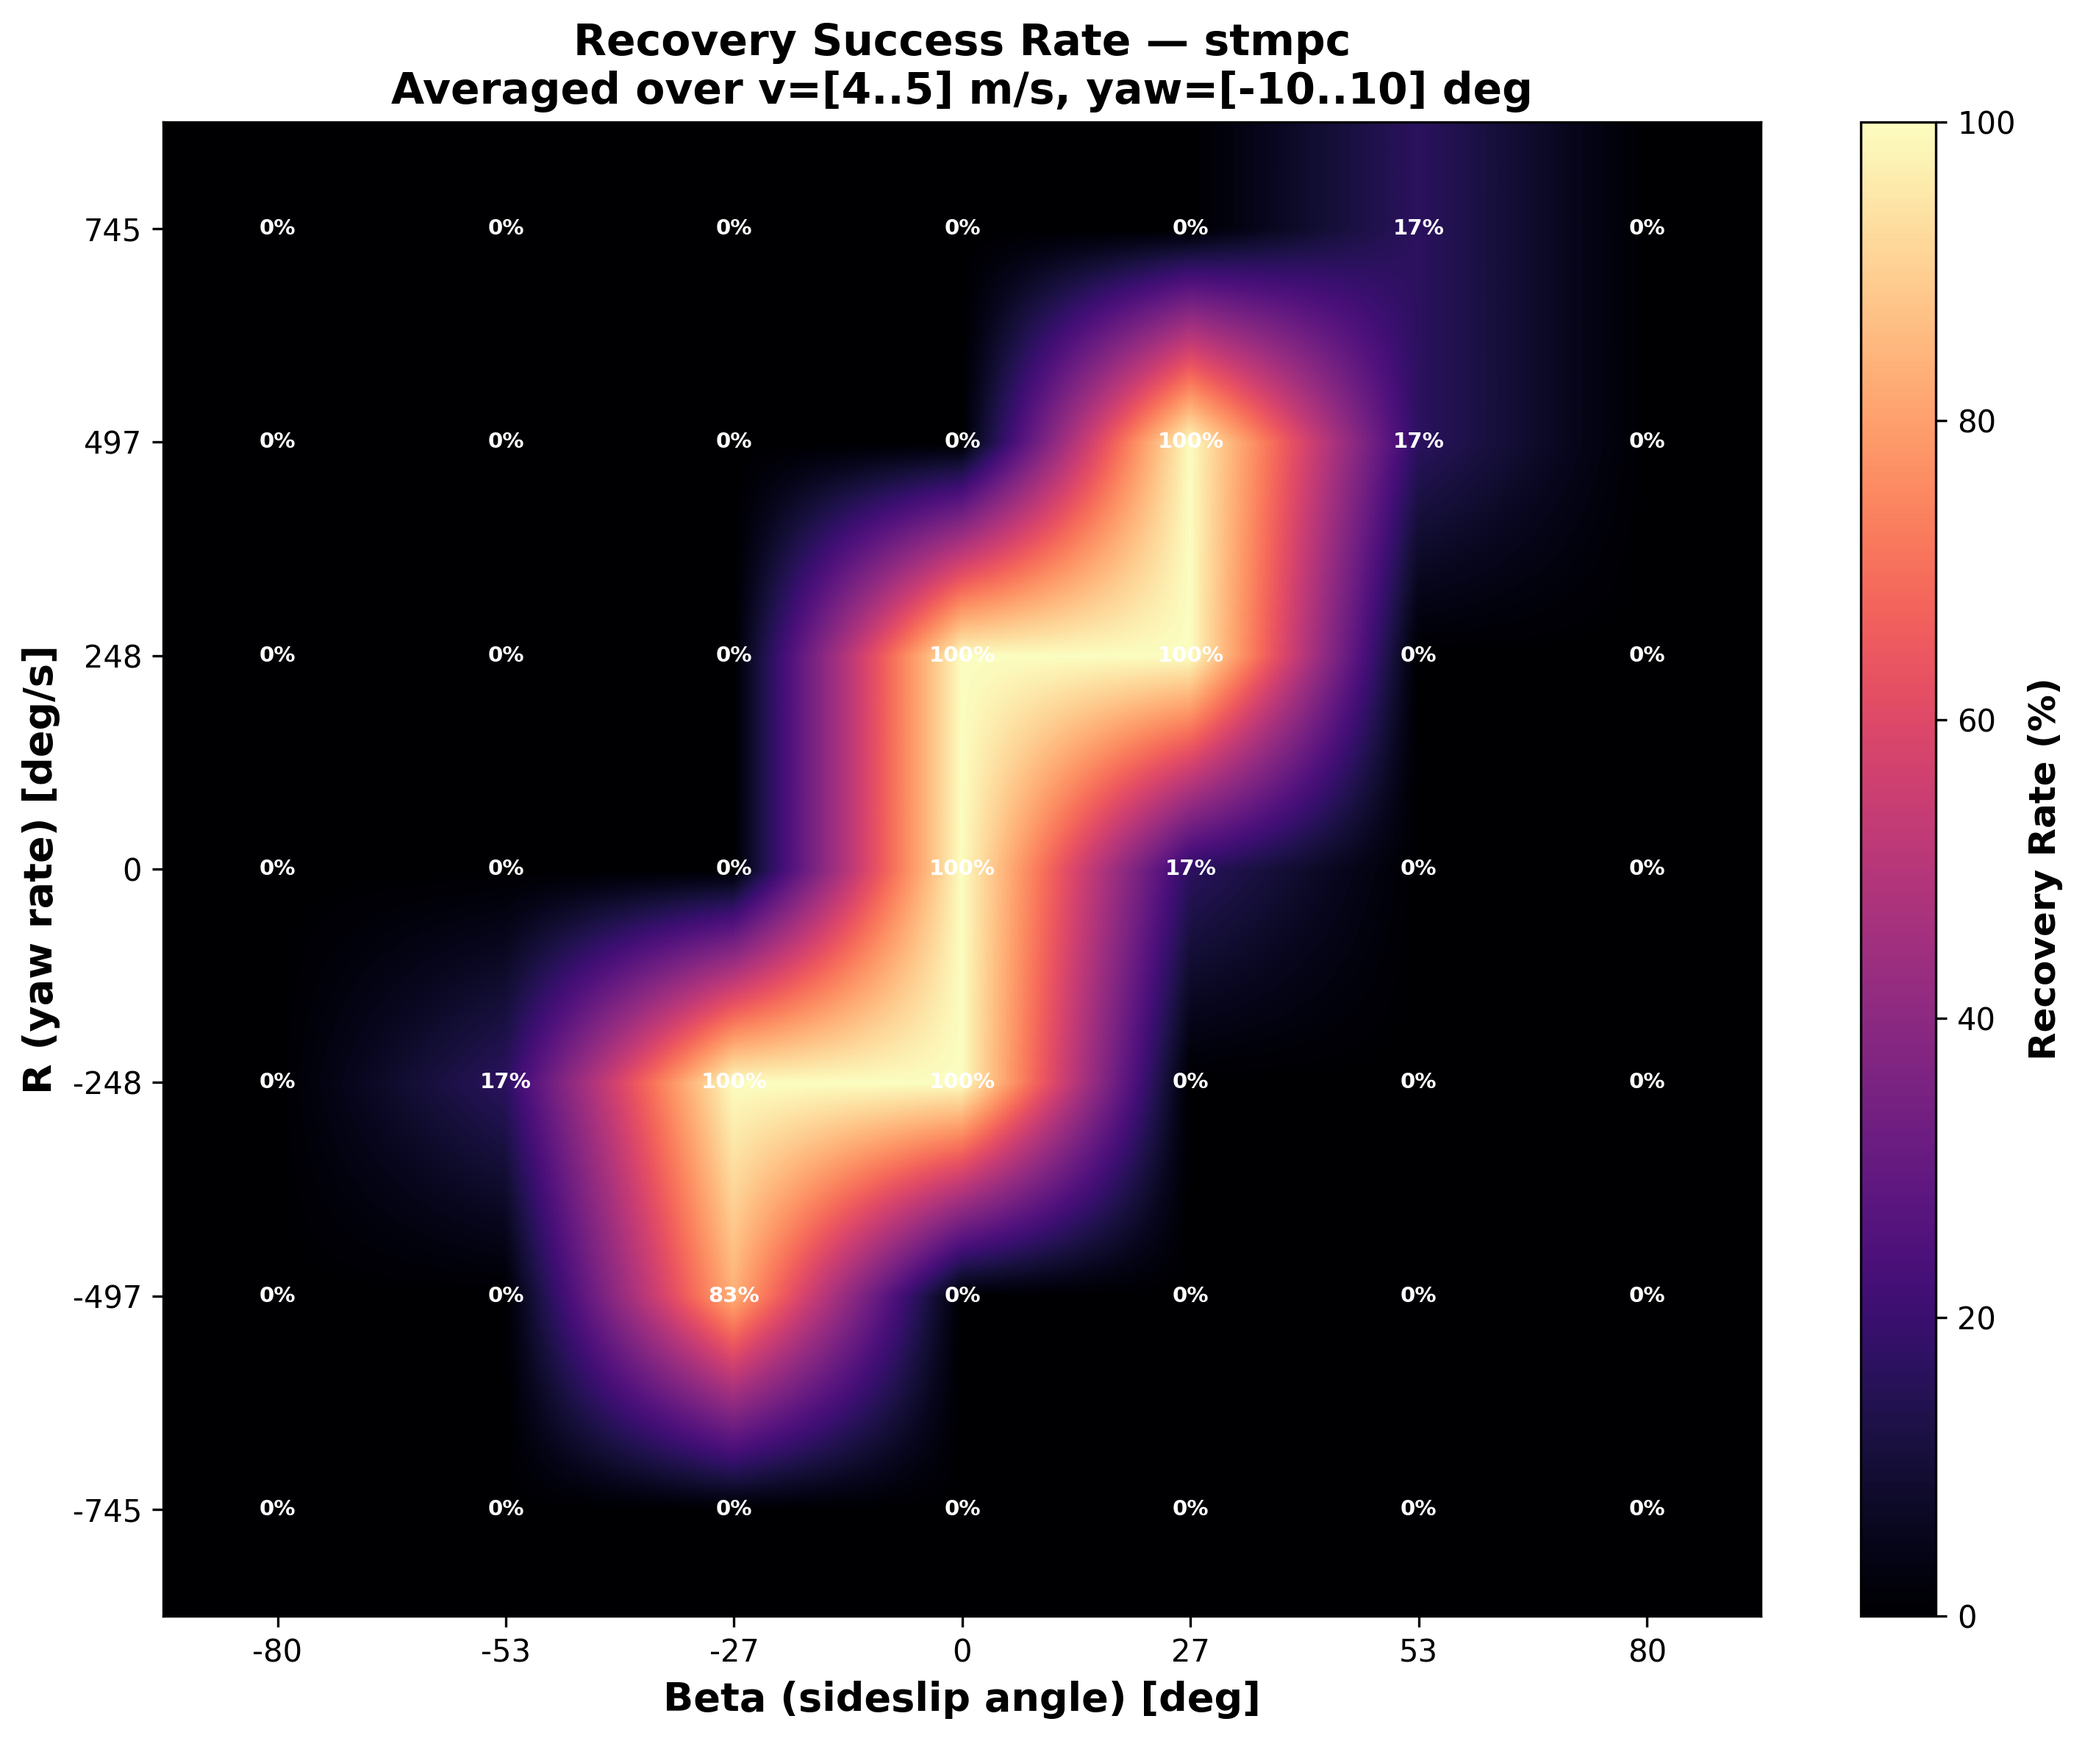
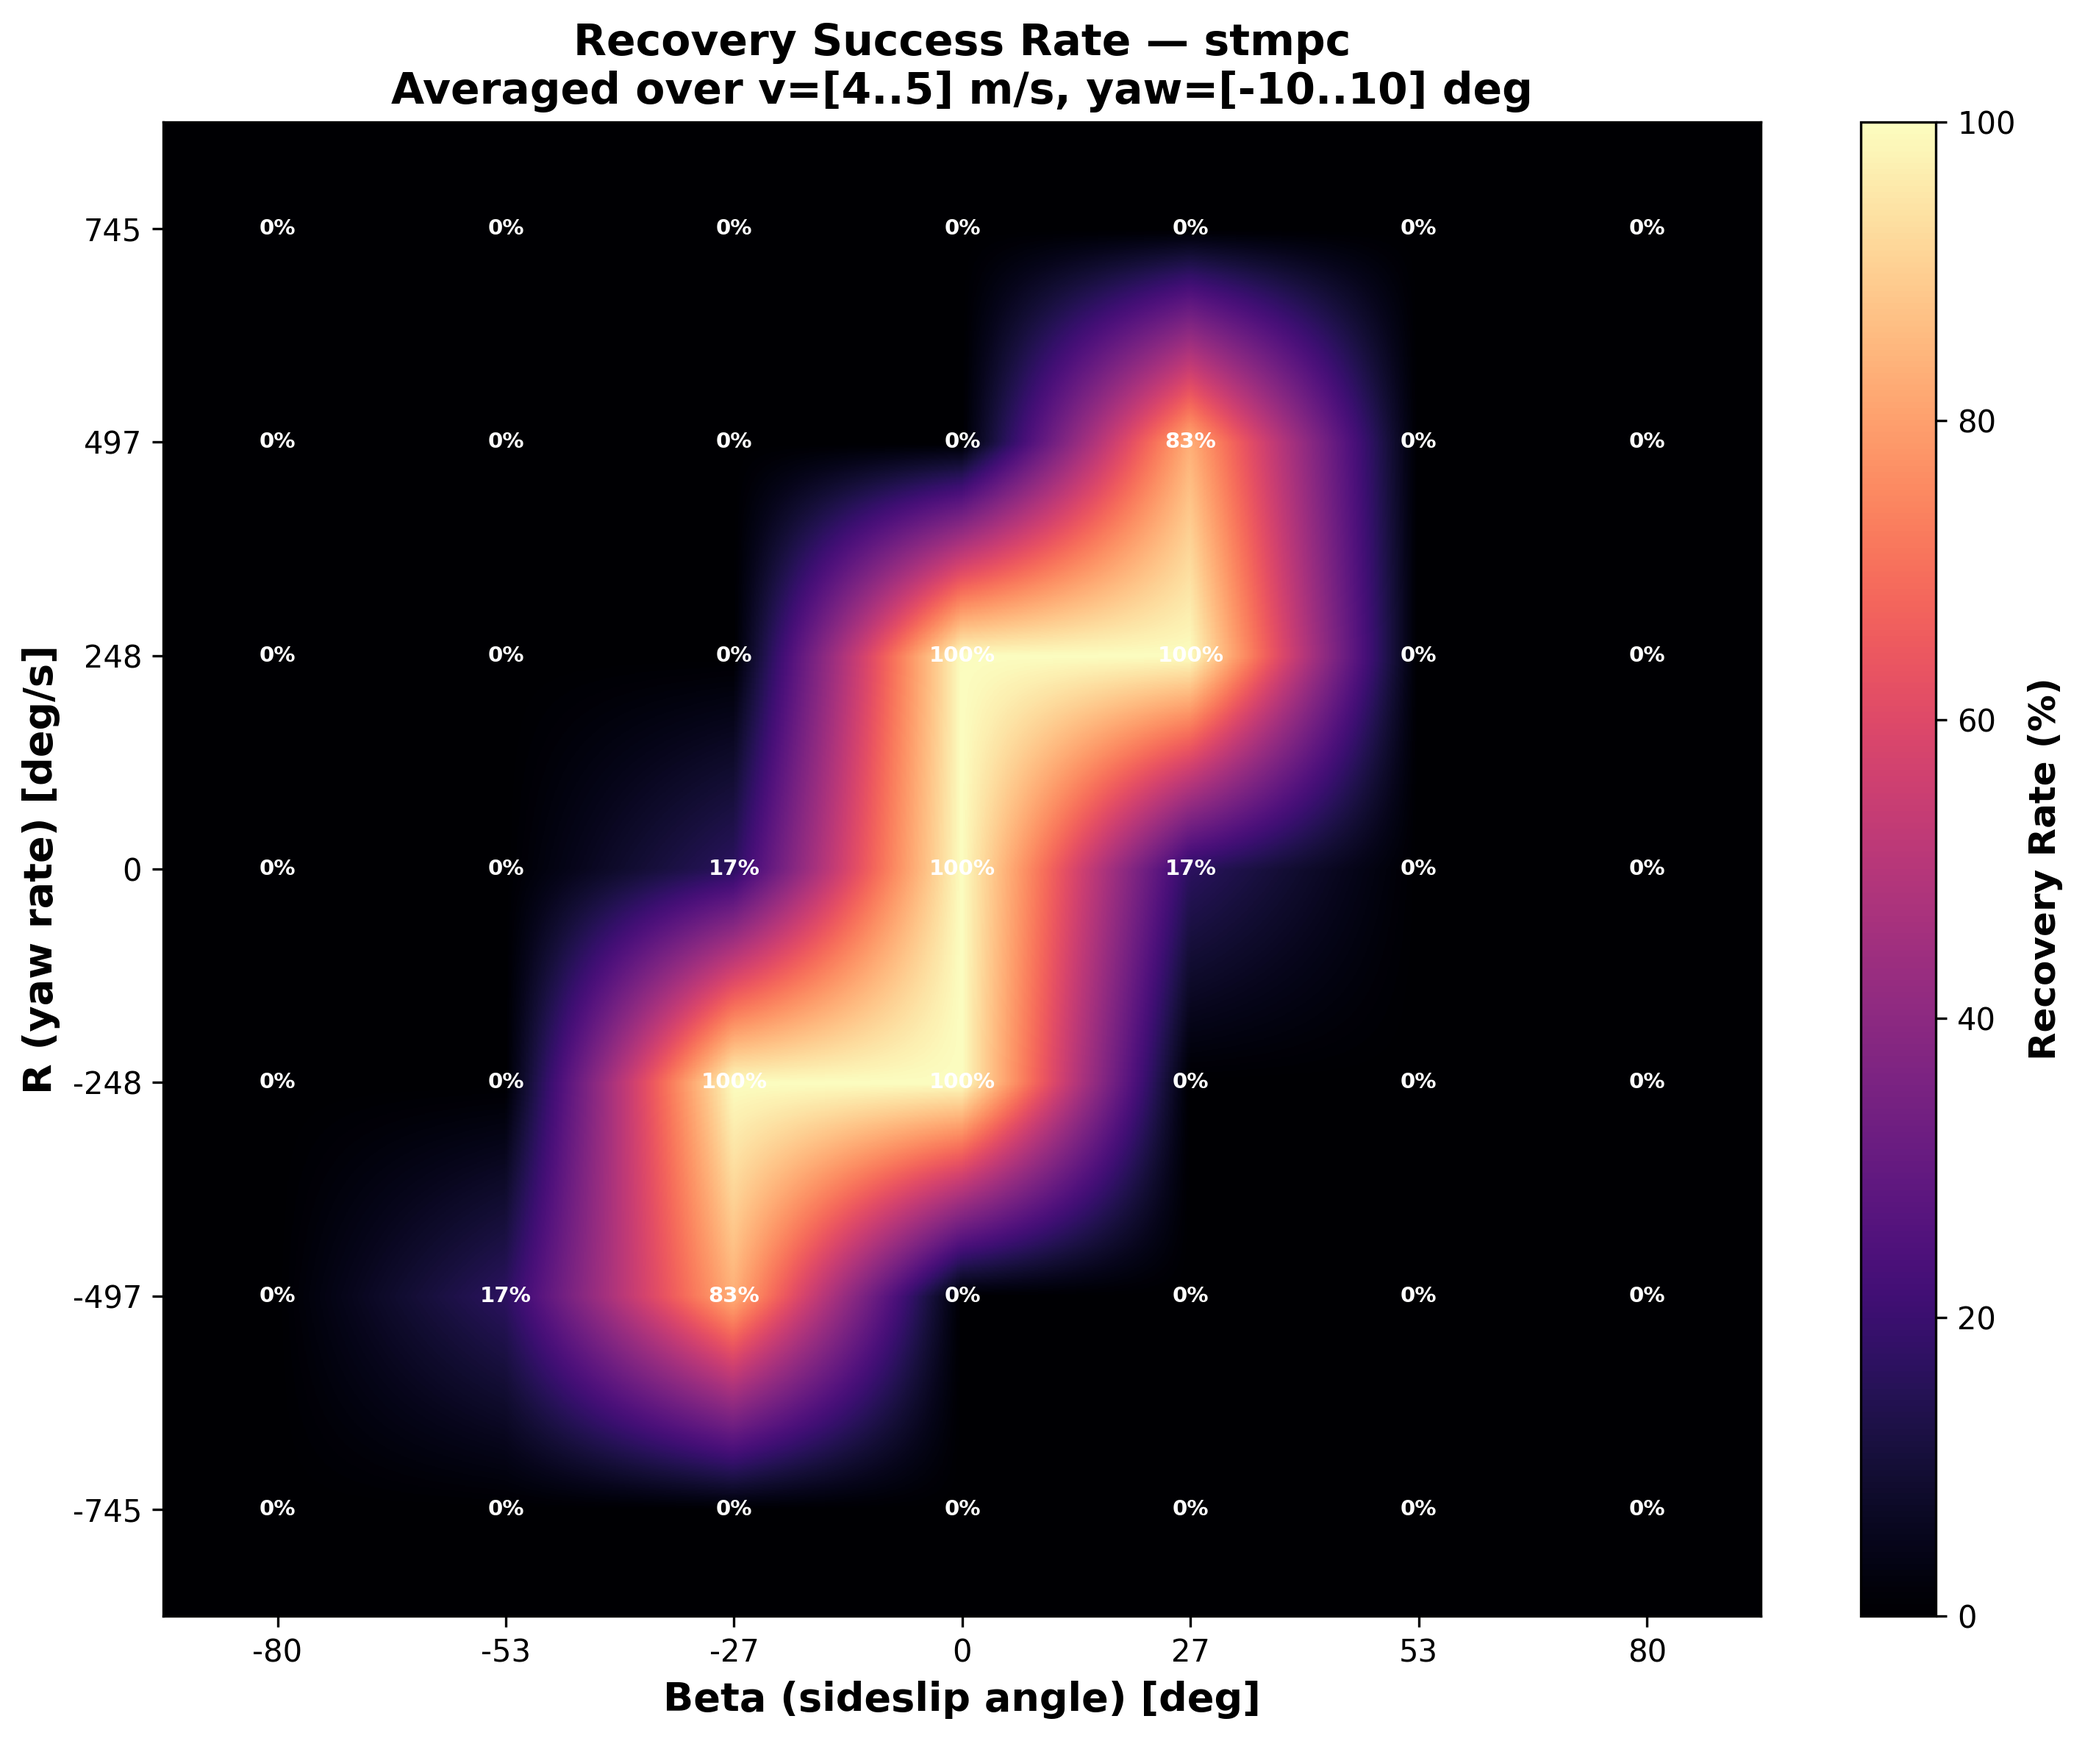
create metrics for new DRL run, and STMPC controller

Changed region(s): [[0.4965, 0.0625, 0.7757, 0.3438], [0.1551, 0.5312, 0.3103, 0.8438], [0.2793, 0.4062, 0.4344, 0.5938]]

diff --git a/examples/analysis/beta_r_avg_plot.py b/examples/analysis/beta_r_avg_plot.py
@@ -38,16 +38,20 @@ from train.train_utils import get_output_dirs, print_header
 # LEARNED_TYPE = ""
 # RUN_ID = ""
 
-CONTROLLER_TYPE = "stmpc"
-DESC = "Single-track MPC controller with acados + CasAdi, ported from ForzaETH"
-LEARNED_TYPE = ""
-RUN_ID = ""
+# CONTROLLER_TYPE = "stmpc"
+# DESC = "Single-track MPC controller with acados + CasAdi, ported from ForzaETH"
+# LEARNED_TYPE = ""
+# RUN_ID = ""
 
 # ==========================
 # LEARNED RL CONTROLLERS
 # ==========================
 
-# CONTROLLER_TYPE = "learned"
+CONTROLLER_TYPE = "learned"
+
+LEARNED_TYPE = "transfer"
+RUN_ID = "c76n9olh"
+DESC = "transfer model - drift model bsoh5xyb retrained by loading and continuing training with --m c. No curriculum learning, small beta-r initial ranges, no Euclidean reward "
 
 # LEARNED_TYPE = "drift"
 # RUN_ID = "178a1a5l"
@@ -136,7 +140,7 @@ SEED = 42
 BETA_VALUES = np.linspace(-1.39, 1.39, 7)  # 10 points, +/-60 deg
 R_VALUES = np.linspace(-13, 13, 7)  # 10 points, +/-180 deg/s
 V_VALUES = np.linspace(4, 5, 2)  # 3 points: [2, 7, 12]
-YAW_VALUES = np.linspace(-0.17, 0.17, 3)  # 3 points: [-60, 0, +60] deg
+YAW_VALUES = np.linspace(-0.17, 0.17, 3)  # 3 points: [-10, 0, +10] deg
 
 
 def reset_at_state(eval_env, beta_rad, r_rad, v, yaw_offset_rad):
